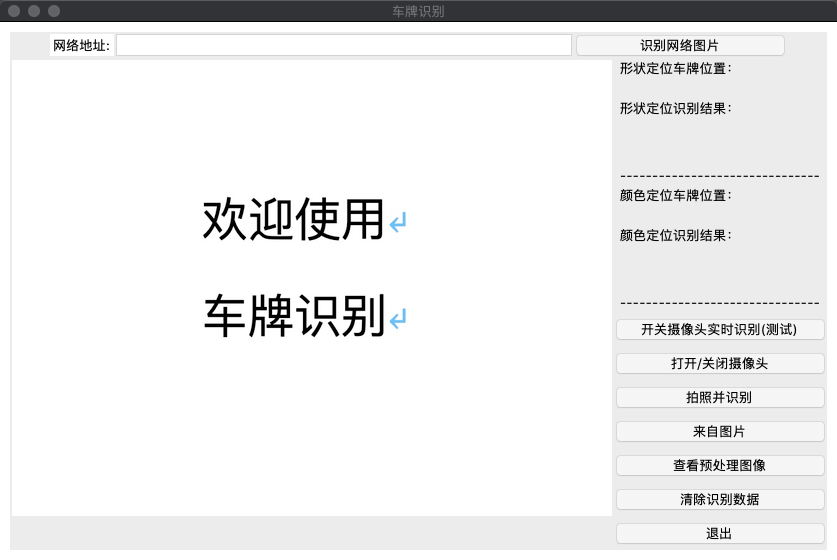
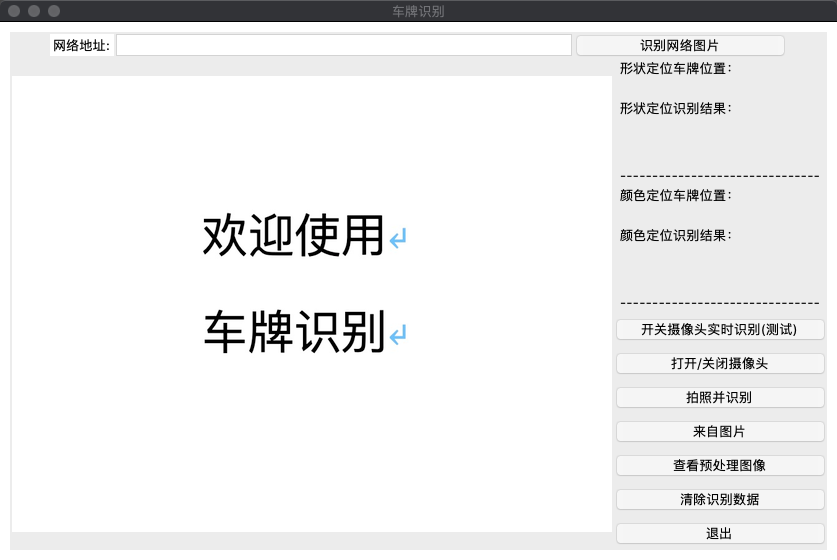
各种居中置顶

Changed region(s): [[0.2174, 0.3339, 0.497, 0.4554], [0.2485, 0.5161, 0.497, 0.6375]]

diff --git a/main.py b/main.py
@@ -50,12 +50,14 @@ class Surface(ttk.Frame):
         frame_right2 = ttk.Frame(self)
         top = ttk.Frame(self)
         win.title("车牌识别")
-
-        self.p1 = StringVar()
+        win.minsize(850, 550)
+        win.wm_attributes('-topmost',1)
+        self.center_window()
 
         top.pack(side=TOP, expand=1, fill=tk.Y)
         L1 = Label(top, text='网络地址:')
         L1.pack(side = LEFT)
+        self.p1 = StringVar()
         self.user_text = ttk.Entry(top, textvariable=self.p1, width=50)
         self.user_text.pack(side = LEFT)
         self.user_text.bind('<Key-Return>', self.url_pic2)
@@ -63,7 +65,7 @@ class Surface(ttk.Frame):
         url_ctl.pack(side = RIGHT)
 
         self.pack(fill=tk.BOTH, expand=tk.YES, padx="10", pady="10")
-        frame_left.pack(side=LEFT, expand=1, fill=BOTH)
+        frame_left.pack(side=LEFT, expand=1)
         frame_right1.pack(side=TOP, expand=1, fill=tk.Y)
         frame_right2.pack(side=RIGHT, expand=0)
         #ttk.Label(frame_left, text='地址：').pack(anchor="nw")
@@ -111,6 +113,16 @@ class Surface(ttk.Frame):
 
         self.predictor = predict.CardPredictor()
         self.predictor.train_svm()
+
+    def center_window(self):
+        screenwidth = win.winfo_screenwidth()
+        screenheight = win.winfo_screenheight()
+        win.update()
+        width = win.winfo_width()
+        height = win.winfo_height()
+        size = '+%d+%d' % ((screenwidth - width)/2, (screenheight - height)/2)
+        #print(size)
+        win.geometry(size)
 
     def excel(self):
         self.row = 0
@@ -252,6 +264,7 @@ class Surface(ttk.Frame):
         print(localtime, color_c, r_c, color_color, r_color)
         self.show_roi2(r_color, roi_color, color_color)
         self.show_roi1(r_c, roi_c, color_c)
+        self.center_window()
 
     def excel_add(self, the_value):
         excel_path = "data.xls"
@@ -342,6 +355,7 @@ class Surface(ttk.Frame):
             self.cameraflag=0
             return
         self.thread_run = False
+        self.center_window()
         self.p1.set("")
         img_bgr3 = img_math.img_read("pic/hy.png")
         self.imgtk2 = self.get_imgtk(img_bgr3)
